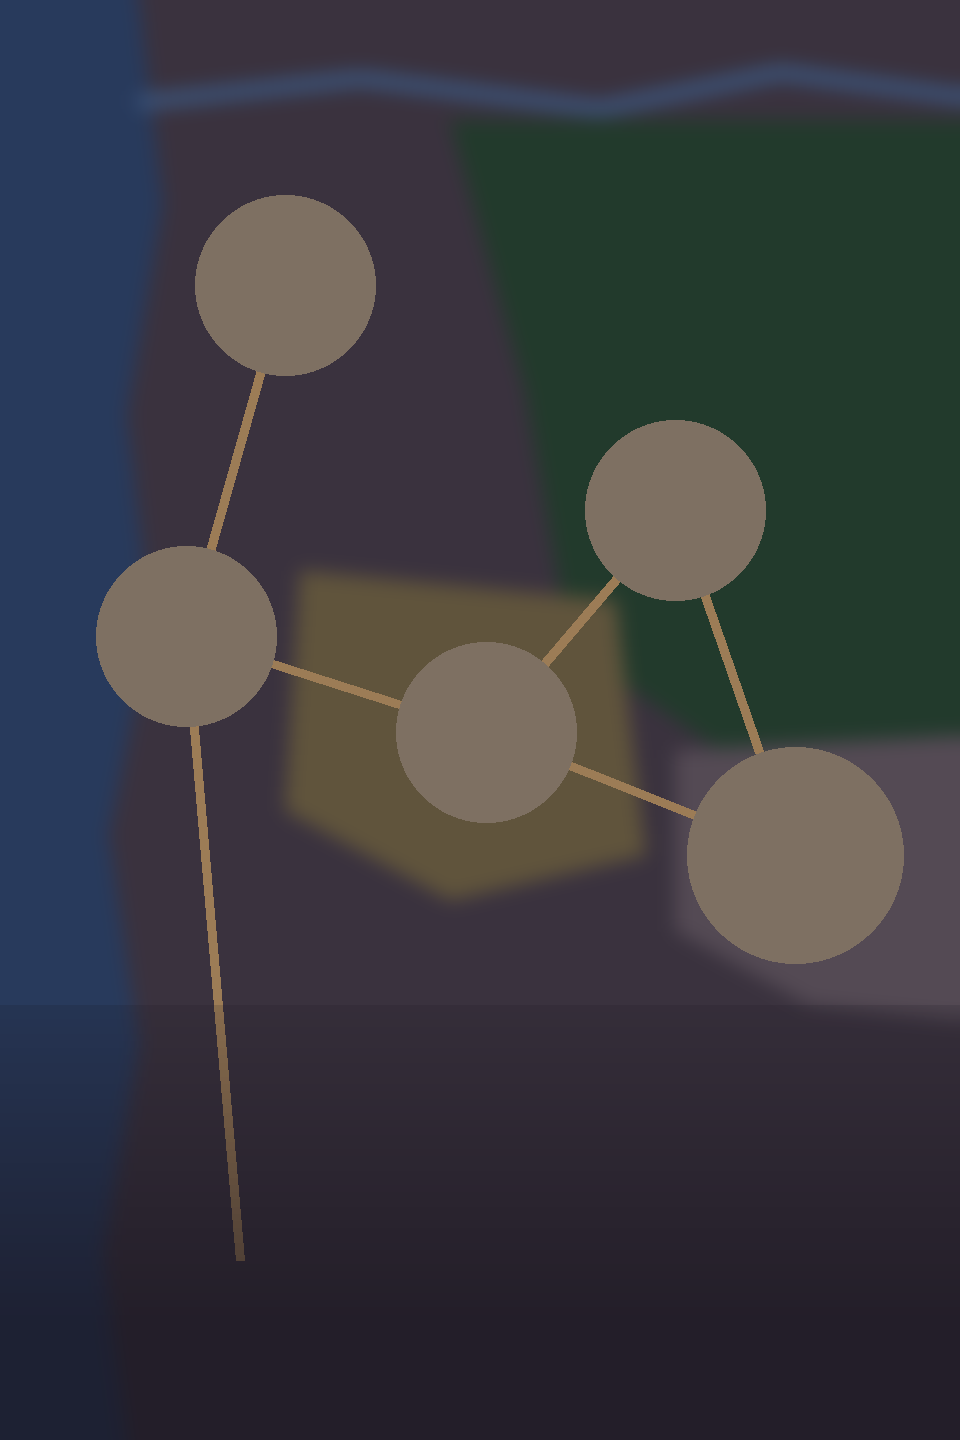
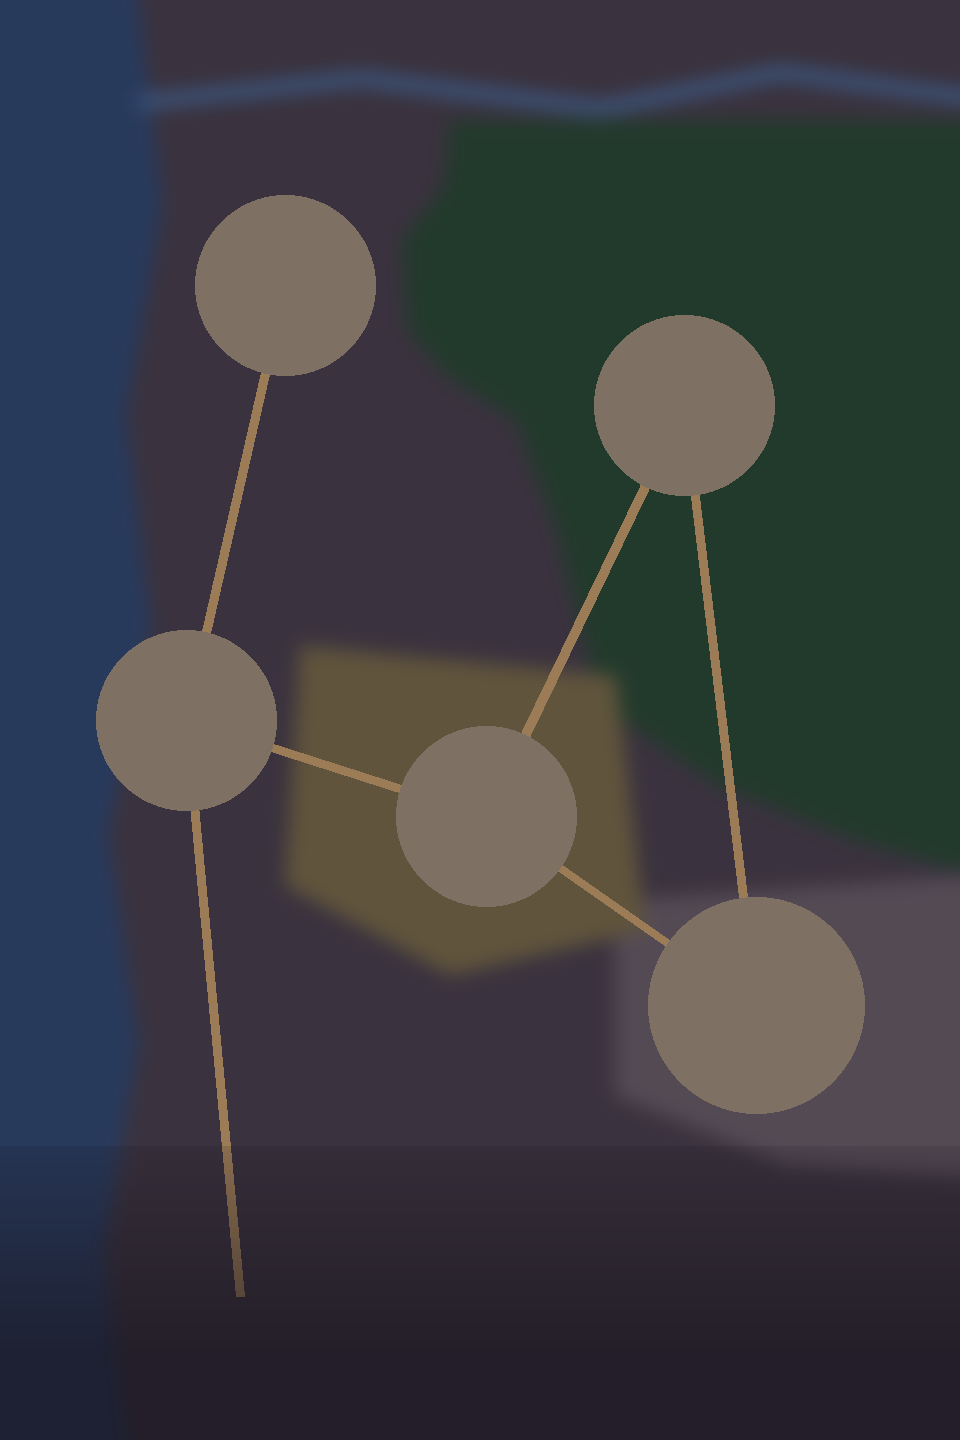
Map: Shadow Grove further north, Gloomy Hill south-west, the coast and the valley south; the forest reaches the tower
Claude-Session: https://claude.ai/code/session_019MjjXLha8yNk8xC45jXx5G

Changed region(s): [[0.0938, 0.2188, 1.0, 0.9062]]

diff --git a/OlaPT/Views/Game/EmpireView.swift b/OlaPT/Views/Game/EmpireView.swift
@@ -8,8 +8,8 @@ enum MapLayout {
     static let height: CGFloat = 480
 
     static let towns: [CGPoint] = [
-        CGPoint(x: 95, y: 95), CGPoint(x: 62, y: 212), CGPoint(x: 162, y: 244),
-        CGPoint(x: 225, y: 170), CGPoint(x: 265, y: 285),
+        CGPoint(x: 95, y: 95), CGPoint(x: 62, y: 240), CGPoint(x: 162, y: 272),
+        CGPoint(x: 228, y: 135), CGPoint(x: 252, y: 335),
     ]
     /// Размер поселения на карте (картинки — втрое подробнее, Tools/game/build_game_assets.py)
     static let spriteSize: [CGSize] = [
@@ -17,7 +17,7 @@ enum MapLayout {
         CGSize(width: 96, height: 96), CGSize(width: 112, height: 112),
     ]
     static let sprites = ["settle_0_calada", "settle_1_redes", "settle_2_trigo", "settle_3_souto", "settle_4_monte"]
-    static let south = CGPoint(x: 80, y: 420)
+    static let south = CGPoint(x: 80, y: 432)
 
     /// Место для обелиска: на дороге или чуть в стороне от неё (поле, лес).
     static func spot(_ id: Int) -> CGPoint {

diff --git a/Tools/game/make_layout_act1.py b/Tools/game/make_layout_act1.py
@@ -14,11 +14,11 @@ W, H, S = 320, 480, 3
 # 0 — деревня с башней, 1–4 — поселения Акта 1, "S" — большие города юга (закрыто).
 P = {
     0: (95, 95, 30, "start"),
-    1: (62, 212, 30, "vil"),
-    2: (162, 244, 30, "vil"),
-    3: (225, 170, 30, "vil"),
-    4: (265, 285, 36, "fort"),
-    "S": (80, 420, 30, "south"),
+    1: (62, 240, 30, "vil"),
+    2: (162, 272, 30, "vil"),
+    3: (228, 135, 30, "vil"),
+    4: (252, 335, 36, "fort"),
+    "S": (80, 432, 30, "south"),
 }
 ROADS = [(0, 1), (1, 2), (2, 3), (3, 4), (2, 4)]
 CLOSED = [(1, "S")]
@@ -42,10 +42,12 @@ def pts(seq):
 
 def base(d):
     d.rectangle([0, 0, s(W), s(H)], fill=C["land"])
-    d.polygon(pts([(150, 40), (320, 40), (320, 330), (290, 300), (240, 250), (190, 215), (175, 130)]),
+    # лес на востоке; выступом на запад он подходит вплотную к башне Маски
+    d.polygon(pts([(150, 40), (320, 40), (320, 290), (285, 280), (240, 262), (200, 235), (185, 175),
+                   (172, 140), (150, 126), (136, 110), (134, 80), (148, 62)]),
               fill=C["forest"])
-    d.polygon(pts([(225, 250), (320, 245), (320, 340), (270, 335), (225, 310)]), fill=C["hills"])
-    d.polygon(pts([(100, 190), (205, 200), (215, 285), (150, 300), (95, 270)]), fill=C["fields"])
+    d.polygon(pts([(205, 300), (320, 292), (320, 392), (262, 388), (205, 365)]), fill=C["hills"])
+    d.polygon(pts([(100, 215), (205, 225), (215, 310), (150, 325), (95, 295)]), fill=C["fields"])
     d.polygon(pts(COAST), fill=C["sea"])
     # Северная граница — река
     d.line(pts([(46, 34), (120, 26), (200, 36), (260, 24), (320, 32)]), fill=C["river"], width=s(5))
@@ -85,9 +87,9 @@ def fog(img):
     over = Image.new("RGBA", img.size, (0, 0, 0, 0))
     od = ImageDraw.Draw(over)
     for i in range(60):
-        y = 335 + i * 2.4
+        y = 382 + i * 1.6
         od.rectangle([0, s(y), s(W), s(y + 2.4)], fill=C["fog"] + (min(170, 40 + i * 3),))
-    od.rectangle([0, s(335 + 60 * 2.4), s(W), s(H)], fill=C["fog"] + (170,))
+    od.rectangle([0, s(382 + 60 * 1.6), s(W), s(H)], fill=C["fog"] + (170,))
     x, y, r, _ = P["S"]
     od.rounded_rectangle([s(x - r), s(y - r * 0.7), s(x + r), s(y + r * 0.7)], radius=s(4),
                          outline=(150, 140, 160, 255), width=s(2))
@@ -139,9 +141,9 @@ def make_guide():
     over = Image.new("RGBA", img.size, (0, 0, 0, 0))
     od = ImageDraw.Draw(over)
     for i in range(60):
-        y = 335 + i * 2.4
+        y = 382 + i * 1.6
         od.rectangle([0, s(y), s(W), s(y + 2.4)], fill=C["fog"] + (min(170, 40 + i * 3),))
-    od.rectangle([0, s(335 + 60 * 2.4), s(W), s(H)], fill=C["fog"] + (170,))
+    od.rectangle([0, s(382 + 60 * 1.6), s(W), s(H)], fill=C["fog"] + (170,))
     return Image.alpha_composite(img.convert("RGBA"), over).convert("RGB")
 
 
